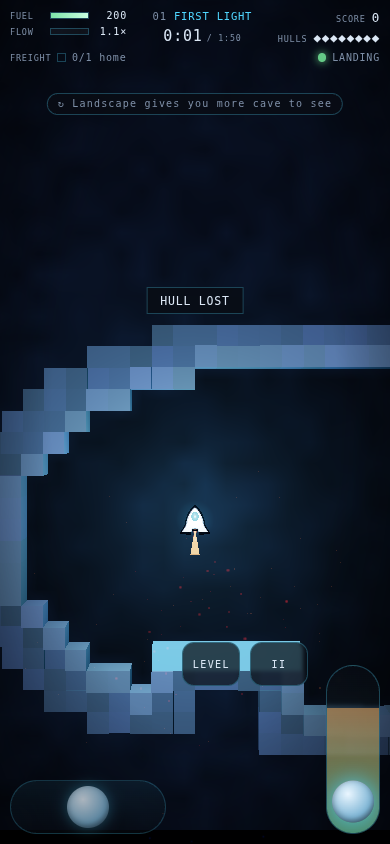
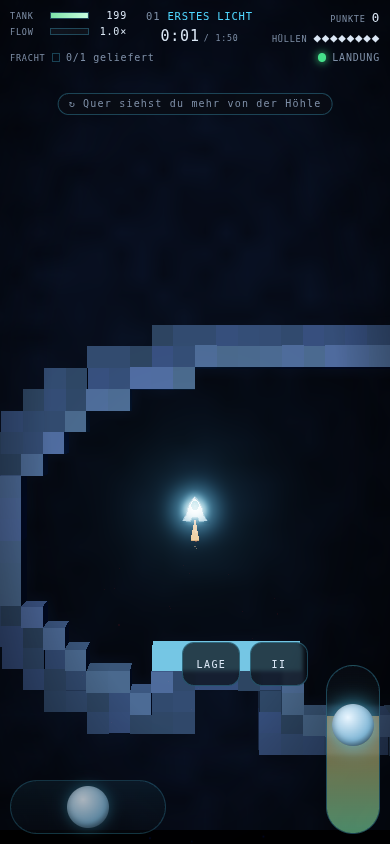
Fix the throttle knob: half-hidden at rest, a third of the travel at full
Both symptoms came from one line. Knob offsets were CSS transform percentages,
and a translate percentage resolves against *the element being moved*, not its
container. So:

- at rest the knob was translated half its own height below the track, where
  overflow: hidden clipped it - hence only a sliver of the bubble showing;
- at full throttle it moved by one knob-height (~42px) rather than one
  track-length (~130px) - hence roughly a centimetre of travel in a three
  centimetre track.

Offsets are now computed in pixels from measured geometry: the knob's range is
the track's client length minus the knob, so it stays fully inside at both ends
and covers the whole track. Gesture travel uses the same range, so the knob
still follows the thumb one to one. The throttle track also gets taller on short
landscape screens, since the track length *is* the full-power stroke.

Two browser tests now pin this down: the knob must be >99% visible at both ends
and must cover at least 95% of the room it has, and that room must be at least
1.5 knob-heights so the stroke is worth pulling. The existing analog test's
helper was measuring the old notion of travel and is corrected to match.

Claude-Session: https://claude.ai/code/session_01KKqfnJH4qm3TYpF4LWBXht

diff --git a/src/ui/touch.ts b/src/ui/touch.ts
@@ -17,9 +17,9 @@
  * 2. **The mapping is relative, not absolute.** Value comes from how far you
  *    have dragged since pressing, not from where your thumb is on screen. You
  *    can start anywhere and push; there is no invisible origin to find first,
- *    and the resting state is always "engine off". Drag distance for the full
- *    range equals the length of the drawn track, so the knob tracks your thumb
- *    one-to-one.
+ *    and the resting state is always "engine off". The drag distance for the
+ *    full range equals the knob's own travel inside its track, so the knob
+ *    follows your thumb one-to-one and reaches both ends.
  *
  * Each zone captures its own pointer, so two thumbs work simultaneously and a
  * finger that wanders outside its zone keeps control of it.
@@ -149,6 +149,8 @@ export class TouchControls {
     document.body.classList.toggle('has-touch-controls', v);
     document.body.style.setProperty('--touch-h', v ? `${this.root.offsetHeight}px` : '0px');
     if (!v) this.reset();
+    // Geometry is only measurable once mounted, so place the knobs now.
+    else this.paint();
   }
 
   get visible() {
@@ -187,11 +189,25 @@ export class TouchControls {
     if (changed) this.paint();
   }
 
-  /** Drag distance that spans the full range: the length of the drawn track. */
+  /**
+   * Pixels the knob's centre can actually move inside its track: the track's
+   * length minus the knob, so the knob stays fully visible at both ends.
+   */
+  private knobRange(p: Paddle, axis: 'x' | 'y'): number {
+    // clientWidth/Height excludes the border, which is the box `left`/`bottom`
+    // are measured against - using the bounding rect leaves the knob a border
+    // width proud of the track at the far end.
+    const span =
+      axis === 'x'
+        ? p.track.clientWidth - p.knob.offsetWidth
+        : p.track.clientHeight - p.knob.offsetHeight;
+    return Math.max(0, span);
+  }
+
+  /** Drag distance that spans the full range. */
   private travel(p: Paddle, axis: 'x' | 'y'): number {
-    const box = p.track.getBoundingClientRect();
-    // Steering runs -1..1 across the track, so half its width is a full deflection.
-    const span = axis === 'x' ? box.width / 2 : box.height;
+    // Steering runs -1..1, so a full deflection is half the knob's travel.
+    const span = axis === 'x' ? this.knobRange(p, 'x') / 2 : this.knobRange(p, 'y');
     return Math.max(MIN_TRAVEL_PX, span);
   }
 
@@ -259,15 +275,32 @@ export class TouchControls {
     });
   }
 
+  /**
+   * Knob positions are computed in pixels from measured geometry.
+   *
+   * They used to be CSS transform percentages, which is the bug that made the
+   * throttle feel broken: a translate percentage resolves against *the element
+   * being moved*, not its container. Full throttle therefore shifted the knob
+   * by one knob-height instead of one track-length - about a third of the way -
+   * and at zero it was translated half its own height below the track, where
+   * `overflow: hidden` cut it in half.
+   */
   private paint() {
-    // -1..1 maps across the full track width; the knob is translated, not re-laid out.
-    this.steer.knob.style.transform = `translate(calc(-50% + ${(-this.turn * 50).toFixed(2)}%), -50%)`;
+    const steerRange = this.knobRange(this.steer, 'x');
+    // turn = +1 is counter-clockwise, which is the left end of the track.
+    this.steer.knob.style.left = `${((0.5 - this.turn / 2) * steerRange).toFixed(1)}px`;
+    this.steer.knob.style.transform = 'translateY(-50%)';
     this.steer.track.parentElement?.setAttribute('aria-valuenow', this.turn.toFixed(2));
 
+    const throttleRange = this.knobRange(this.throttlePaddle, 'y');
+    this.throttlePaddle.knob.style.bottom = `${(this.throttle * throttleRange).toFixed(1)}px`;
+    this.throttlePaddle.knob.style.transform = 'translateX(-50%)';
     const pct = this.throttle * 100;
-    this.throttlePaddle.knob.style.transform = `translate(-50%, calc(50% - ${pct.toFixed(1)}%))`;
     this.throttleFill.style.height = `${pct.toFixed(1)}%`;
-    this.throttlePaddle.track.parentElement?.setAttribute('aria-valuenow', Math.round(pct).toString());
+    this.throttlePaddle.track.parentElement?.setAttribute(
+      'aria-valuenow',
+      Math.round(pct).toString(),
+    );
   }
 
   dispose() {

diff --git a/tests/e2e/smoke.spec.ts b/tests/e2e/smoke.spec.ts
@@ -319,10 +319,22 @@ async function pressAndDrag(
   await page.mouse.move(sx + by.dx, sy + by.dy, { steps: 8 });
 }
 
-/** The drag distance that spans a paddle's full range: the drawn track length. */
+/**
+ * The drag distance that spans a paddle's full range. That is the knob's own
+ * travel inside the track - the track length minus the knob - which is what
+ * the implementation uses so the knob follows the thumb one-to-one.
+ */
 async function trackTravel(page: Page, selector: string, axis: 'x' | 'y') {
-  const box = (await page.locator(selector).boundingBox())!;
-  return axis === 'x' ? box.width / 2 : box.height;
+  return page.evaluate(
+    ([sel, ax]) => {
+      const t = document.querySelector(sel) as HTMLElement;
+      const k = t.querySelector('.touch-knob') as HTMLElement;
+      return ax === 'x'
+        ? (t.clientWidth - k.offsetWidth) / 2
+        : t.clientHeight - k.offsetHeight;
+    },
+    [selector, axis] as const,
+  );
 }
 
 test('the throttle paddle is analog and springs back', async ({ page }) => {
@@ -383,6 +395,74 @@ test('a thumb that lands beside the throttle track still works', async ({ page }
 
   expect(s.throttle).toBeGreaterThan(0.9);
   expect(s.shipState).toBe('flying');
+});
+
+/** Track and knob geometry, plus how much of the knob is inside its track. */
+async function knobGeometry(page: Page, track: string) {
+  return page.evaluate((sel) => {
+    const t = document.querySelector(sel)!.getBoundingClientRect();
+    const k = document.querySelector(sel + ' .touch-knob')!.getBoundingClientRect();
+    const overlapY = Math.min(k.bottom, t.bottom) - Math.max(k.top, t.top);
+    const overlapX = Math.min(k.right, t.right) - Math.max(k.left, t.left);
+    return {
+      trackH: t.height,
+      trackW: t.width,
+      knobH: k.height,
+      knobW: k.width,
+      centreY: k.top + k.height / 2 - t.top,
+      centreX: k.left + k.width / 2 - t.left,
+      visible: (overlapY / k.height) * (overlapX / k.width),
+    };
+  }, track);
+}
+
+test('the throttle knob stays visible and travels the whole track', async ({ page }) => {
+  // Both halves of the original bug: a CSS translate percentage resolves
+  // against the knob, not the track, so at rest the knob hung half outside a
+  // clipped track and full throttle moved it by one knob-height - about a
+  // third of the way up.
+  await bootWithoutSave(page);
+  await enableTouchControls(page);
+  await launchLevelOne(page);
+
+  const rest = await knobGeometry(page, '.touch-vtrack');
+  expect(rest.visible).toBeGreaterThan(0.99);
+
+  const travel = await trackTravel(page, '.touch-vtrack', 'y');
+  await pressAndDrag(page, '.touch-vtrack', { x: 0.5, y: 0.5 }, { dx: 0, dy: -travel });
+  await page.waitForTimeout(300);
+
+  const full = await knobGeometry(page, '.touch-vtrack');
+  await page.mouse.up();
+
+  expect(full.visible).toBeGreaterThan(0.99);
+  // The knob must cover essentially all of the room it has, not a third of it.
+  const moved = rest.centreY - full.centreY;
+  const room = rest.trackH - rest.knobH;
+  expect(moved / room).toBeGreaterThan(0.95);
+  // And that room has to be worth pulling in the first place.
+  expect(room).toBeGreaterThan(rest.knobH * 1.5);
+});
+
+test('the steering knob reaches both ends of its track', async ({ page }) => {
+  await bootWithoutSave(page);
+  await enableTouchControls(page);
+  await launchLevelOne(page);
+
+  const centre = await knobGeometry(page, '.touch-track');
+  expect(centre.visible).toBeGreaterThan(0.99);
+  expect(centre.centreX).toBeCloseTo(centre.trackW / 2, 0);
+
+  const travel = await trackTravel(page, '.touch-track', 'x');
+  await pressAndDrag(page, '.touch-track', { x: 0.5, y: 0.5 }, { dx: travel, dy: 0 });
+  await page.waitForTimeout(300);
+  const right = await knobGeometry(page, '.touch-track');
+  await page.mouse.up();
+
+  expect(right.visible).toBeGreaterThan(0.99);
+  const moved = right.centreX - centre.centreX;
+  const room = (centre.trackW - centre.knobW) / 2;
+  expect(moved / room).toBeGreaterThan(0.95);
 });
 
 test('the steering paddle turns the ship and re-centres', async ({ page }) => {

diff --git a/src/style.css b/src/style.css
@@ -742,16 +742,19 @@ body.has-touch-controls .toast {
   box-shadow: 0 0 22px rgba(79, 214, 255, 0.85), inset 0 -2px 6px rgba(0, 0, 0, 0.4);
 }
 
+/* Knob offsets are written in pixels by TouchControls.paint(); the transform
+   here only centres it on the cross axis. Percentages cannot do this job: a
+   translate percentage resolves against the knob, not the track. */
 .touch-track > .touch-knob {
-  left: 50%;
+  left: 0;
   top: 50%;
-  transform: translate(-50%, -50%);
+  transform: translateY(-50%);
 }
 
 .touch-vtrack > .touch-knob {
   left: 50%;
   bottom: 0;
-  transform: translate(-50%, 50%);
+  transform: translateX(-50%);
 }
 
 .touch-mid {
@@ -806,10 +809,11 @@ body.has-touch-controls .toast {
    stroke, and the track length *is* that stroke. */
 @media (orientation: landscape) and (max-height: 480px) {
   .touch {
-    height: 62vh;
+    height: 66vh;
   }
+  /* The track length is the full-power stroke, so it needs to be worth pulling. */
   .touch-vtrack {
-    height: clamp(92px, 30vh, 132px);
+    height: clamp(120px, 44vh, 190px);
   }
   .touch-track {
     width: clamp(140px, 28vw, 260px);

diff --git a/README.md b/README.md
@@ -373,6 +373,14 @@ were real balance bugs that only a slow tier could expose:
   beside a 52-pixel-wide track and swiping up did nothing at all — which is
   exactly what it felt like. Both paddles are now large gesture zones with
   relative mapping.
+- The knobs were positioned with CSS transform percentages, and **a translate
+  percentage resolves against the element being moved, not its container**. So
+  full throttle shifted the knob by one knob-height instead of one
+  track-length — roughly a third of the way — and at rest it was translated
+  half its own height below the track, where `overflow: hidden` cut it in half.
+  Knob offsets are computed in pixels from measured geometry now, and two
+  browser tests assert the knob stays fully visible and covers at least 95% of
+  the room it has.
 
 A second round, after the touch controls went in:
 
